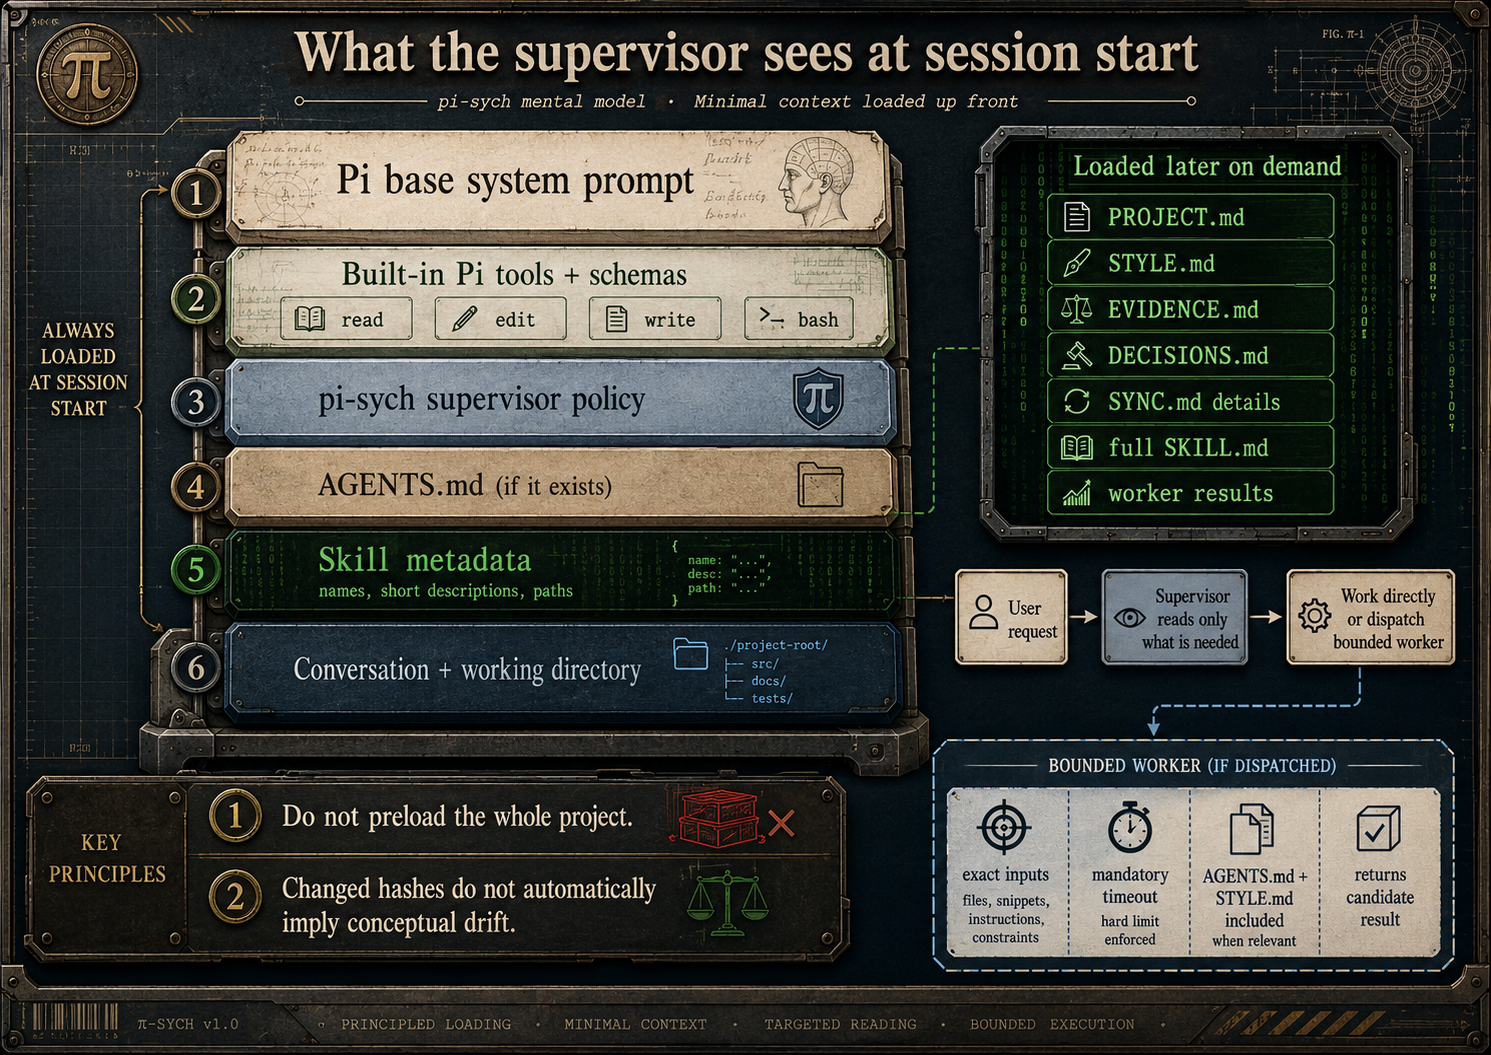
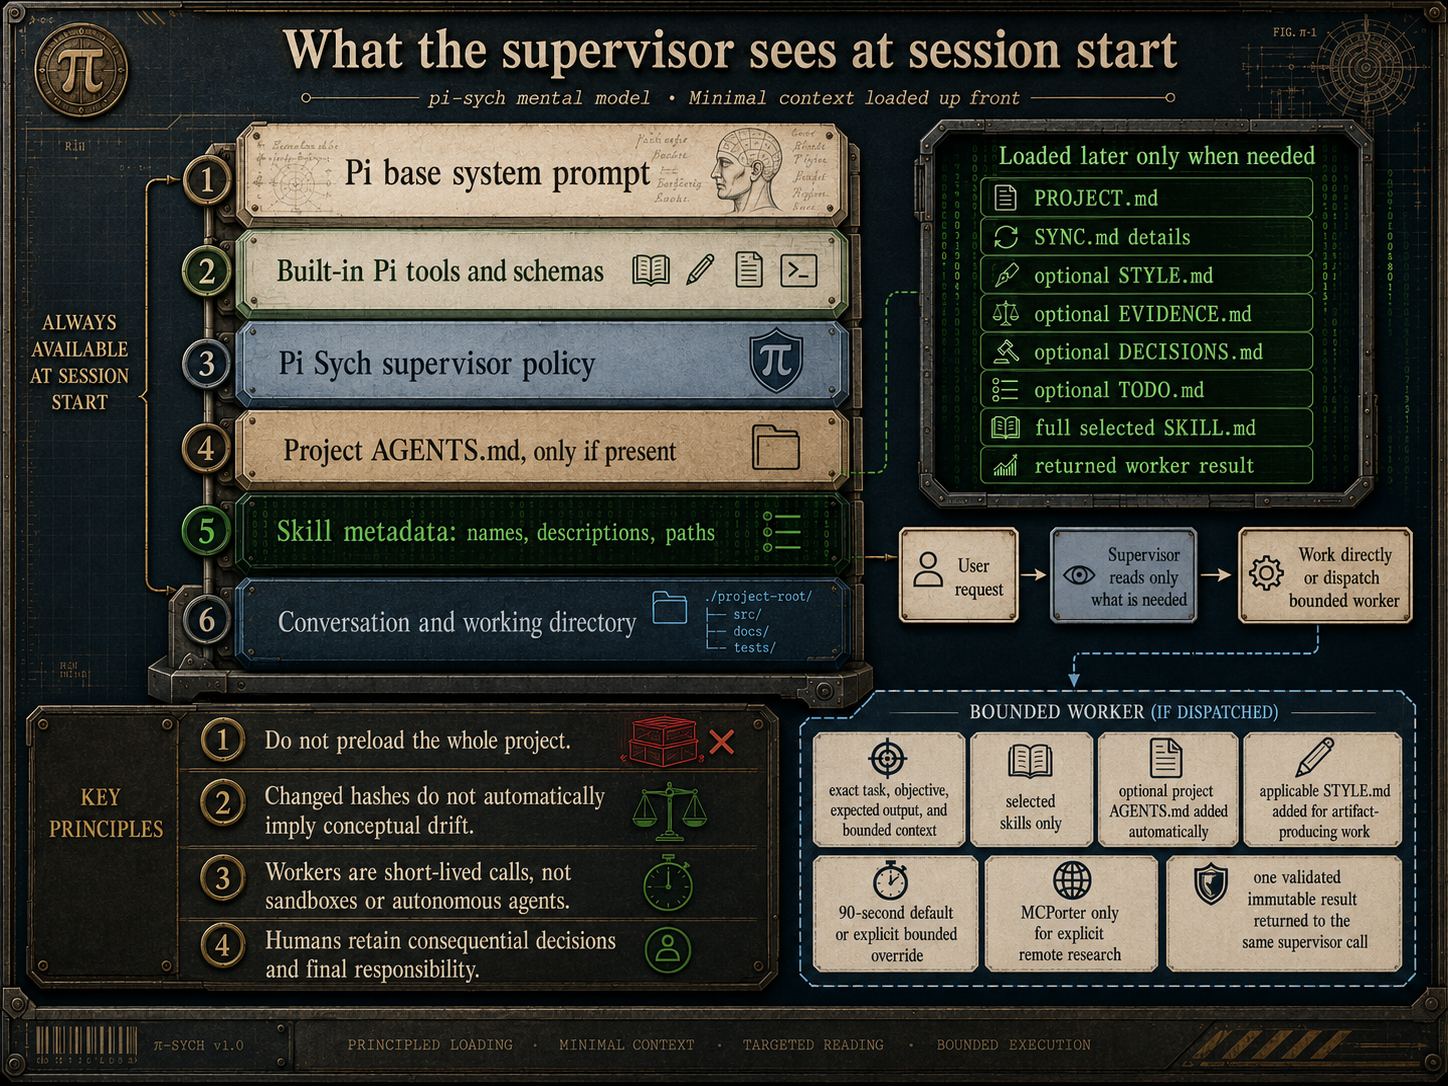
fix: harden minimal architecture release

diff --git a/extensions/workbench/src/worker-engine.ts b/extensions/workbench/src/worker-engine.ts
@@ -3,7 +3,7 @@ import { randomUUID } from "node:crypto";
 import { constants, existsSync, statSync } from "node:fs";
 import { access, mkdir, mkdtemp, open, readFile, rm } from "node:fs/promises";
 import { homedir, tmpdir } from "node:os";
-import { dirname, isAbsolute, resolve } from "node:path";
+import { dirname, isAbsolute, relative, resolve } from "node:path";
 import { fileURLToPath } from "node:url";
 
 export const WORKER_MODES = ["read-only", "edit", "full-host"] as const;
@@ -82,6 +82,7 @@ export interface WorkerLaunchOutcome {
 	stdout: string;
 	stderr: string;
 	classification?: "cancelled" | "timeout" | "spawn-failure";
+	terminationSignal?: NodeJS.Signals | null;
 }
 
 export interface DispatchOutcome {
@@ -290,6 +291,7 @@ export function taskPrompt(
 				]
 			: []),
 		"Submit exactly one truthful immutable result with submit_artifact before finishing.",
+		"Set resultPackage to 'inline' when the structured result is complete; otherwise use an existing durable project-relative path.",
 	].join("\n");
 }
 
@@ -367,6 +369,28 @@ async function readWorkerResult(
 	} catch (error) {
 		if ((error as NodeJS.ErrnoException).code === "ENOENT") return undefined;
 		throw error;
+	}
+}
+
+async function validateResultPackage(
+	projectRoot: string,
+	result: WorkerResult,
+): Promise<void> {
+	if (result.resultPackage === "inline") return;
+	const path = resolve(projectRoot, result.resultPackage);
+	const rel = relative(projectRoot, path);
+	if (
+		rel === ".." ||
+		rel.startsWith(`..${process.platform === "win32" ? "\\" : "/"}`) ||
+		isAbsolute(rel)
+	)
+		throw new Error(
+			"resultPackage must be 'inline' or a project-relative path",
+		);
+	try {
+		await access(path, constants.R_OK);
+	} catch {
+		throw new Error("resultPackage path is unavailable");
 	}
 }
 
@@ -463,8 +487,14 @@ export const launchPiWorker: WorkerLauncher = async (spec) =>
 				classification: "spawn-failure",
 			}),
 		);
-		child.once("close", (exitCode) =>
-			finish({ exitCode, stdout, stderr, classification: stopClassification }),
+		child.once("close", (exitCode, terminationSignal) =>
+			finish({
+				exitCode,
+				stdout,
+				stderr,
+				classification: stopClassification,
+				terminationSignal,
+			}),
 		);
 	});
 
@@ -504,7 +534,9 @@ export async function dispatchWorker(options: {
 		let resultError: string | undefined;
 		try {
 			result = await readWorkerResult(resultPath, identity);
+			if (result) await validateResultPackage(options.projectRoot, result);
 		} catch (error) {
+			result = undefined;
 			resultError = error instanceof Error ? error.message : String(error);
 		}
 		if (result) return { identity, model, attempts: 1, timeoutMs, result };

diff --git a/extensions/workbench/src/project-status.ts b/extensions/workbench/src/project-status.ts
@@ -370,6 +370,15 @@ export function formatProjectStatusCheck(state: ProjectStatusCheck): string {
 		lines.push("", "Changed:", ...state.changed.map((path) => `- ${path}`));
 	if (state.missing.length)
 		lines.push("", "Missing:", ...state.missing.map((path) => `- ${path}`));
+	const needsReview = state.artifacts
+		.filter((artifact) => artifact.status === "needs-review")
+		.map((artifact) => artifact.path);
+	if (needsReview.length)
+		lines.push(
+			"",
+			"Persisted as needing review:",
+			...needsReview.map((path) => `- ${path}`),
+		);
 	if (state.impacted.length)
 		lines.push(
 			"",
@@ -386,7 +395,7 @@ export function formatProjectStatusCheck(state: ProjectStatusCheck): string {
 			...state.cycles.map((cycle) => `- ${cycle.join(" → ")}`),
 		);
 	if (!state.changed.length && !state.missing.length)
-		lines.push("", "All tracked files match their acknowledged hashes.");
+		lines.push("", "All tracked files match their recorded hashes.");
 	lines.push(
 		"",
 		"A changed hash establishes changed content, not conceptual drift or authority.",

diff --git a/extensions/worker/index.ts b/extensions/worker/index.ts
@@ -18,7 +18,10 @@ const resultParameters = Type.Object({
 	),
 	changedFiles: Type.Array(Type.String()),
 	limitations: Type.Array(Type.String()),
-	resultPackage: Type.String(),
+	resultPackage: Type.String({
+		description:
+			"Use 'inline' when the structured result is complete; otherwise provide an existing durable project-relative path.",
+	}),
 });
 
 export default function piSychWorker(pi: ExtensionAPI): void {

diff --git a/SYNC.md b/SYNC.md
@@ -3,11 +3,11 @@
 ```json
 {
   "version": 1,
-  "confirmedAt": "2026-07-30T01:07:24.518Z",
+  "confirmedAt": "2026-07-30T02:16:20.647Z",
   "artifacts": [
     {
       "path": "PROJECT.md",
-      "fingerprint": "sha256:b7e8bc2dfc4edcea037bdc6663edd020602f488f425b232d7e0851391aff37ff",
+      "fingerprint": "sha256:1628abe53fe58d04489a85012c1e7a1775530cc6904c271662e3bf74cde87166",
       "status": "current",
       "role": "project",
       "authoritativeFor": [
@@ -18,13 +18,13 @@
         "accepted-direction"
       ],
       "acknowledgement": {
-        "at": "2026-07-30T01:07:24.518Z",
-        "reason": "Reviewed the completed refactor, release metadata, project direction, evidence update, and documentation changes."
+        "at": "2026-07-30T02:16:20.647Z",
+        "reason": "Reviewed the v1.0.1 corrective implementation, package metadata, current diagrams, evidence, project direction, and affected documentation before release."
       }
     },
     {
       "path": "EVIDENCE.md",
-      "fingerprint": "sha256:d7b1a59bced1974dce34d1fe12051f78109e68a467ba5143e12c5f88f6a00870",
+      "fingerprint": "sha256:b5d2ed78758f72904f52e8aa261d729830b1ecaa4f06aba91bf1ab8ea9eb66b3",
       "status": "current",
       "role": "evidence",
       "authoritativeFor": [
@@ -38,27 +38,27 @@
         "tests/integration"
       ],
       "acknowledgement": {
-        "at": "2026-07-30T01:07:24.518Z",
-        "reason": "Reviewed the completed refactor, release metadata, project direction, evidence update, and documentation changes."
+        "at": "2026-07-30T02:16:20.647Z",
+        "reason": "Reviewed the v1.0.1 corrective implementation, package metadata, current diagrams, evidence, project direction, and affected documentation before release."
       }
     },
     {
       "path": "ARCHITECTURE.md",
-      "fingerprint": "sha256:084aa2b50ab4851fc82352379079a77358003c70c6be8708f4dcf7b066612974",
+      "fingerprint": "sha256:ad40d74e0e544b5ea029438320ce5b1fdff0ac3e7bb9e82100e5985b063db8c4",
       "status": "current",
       "role": "architecture",
       "authoritativeFor": [
         "implemented-architecture"
       ],
       "acknowledgement": {
-        "at": "2026-07-30T01:04:35.543Z",
-        "reason": "Completed the approved minimal-architecture refactor and reviewed the affected documentation, evidence, and package metadata."
+        "at": "2026-07-30T02:16:20.647Z",
+        "reason": "Reviewed the v1.0.1 corrective implementation, package metadata, current diagrams, evidence, project direction, and affected documentation before release."
       }
     },
     {
       "path": "README.md",
-      "fingerprint": "sha256:0ae4e3c07d6bf8f8778b6ddfe524e4440b5f4665258db391e726ea0cb547ebe8",
-      "status": "needs-review",
+      "fingerprint": "sha256:27254049334aa8926b3eb148e16ee2d2c1ff16c66b6f11234fc7d8daa5b70e73",
+      "status": "current",
       "role": "documentation",
       "authoritativeFor": [
         "package-usage",
@@ -69,13 +69,13 @@
         "package.json"
       ],
       "acknowledgement": {
-        "at": "2026-07-30T01:04:35.543Z",
-        "reason": "Completed the approved minimal-architecture refactor and reviewed the affected documentation, evidence, and package metadata."
+        "at": "2026-07-30T02:16:20.647Z",
+        "reason": "Reviewed the v1.0.1 corrective implementation, package metadata, current diagrams, evidence, project direction, and affected documentation before release."
       }
     },
     {
       "path": "package.json",
-      "fingerprint": "sha256:6ddc1e722145ae8d7a8b73e5a9ad2af88a8361e5cde85388781adb1c9283a738",
+      "fingerprint": "sha256:b1c0254b26e39bd758b1a88b995ae20460733481d8952cb1bdbcbae452794ef4",
       "status": "current",
       "role": "package-boundary",
       "authoritativeFor": [
@@ -88,8 +88,8 @@
         "tests"
       ],
       "acknowledgement": {
-        "at": "2026-07-30T01:07:24.518Z",
-        "reason": "Reviewed the completed refactor, release metadata, project direction, evidence update, and documentation changes."
+        "at": "2026-07-30T02:16:20.647Z",
+        "reason": "Reviewed the v1.0.1 corrective implementation, package metadata, current diagrams, evidence, project direction, and affected documentation before release."
       }
     },
     {
@@ -107,15 +107,15 @@
     },
     {
       "path": "docs/DEVELOPMENT.md",
-      "fingerprint": "sha256:d6bfd475ad12dbdb8e5ed198d3f9a3496c81ec4e173773d923c9b2bd22d1c115",
+      "fingerprint": "sha256:2c391e446aac4f7e08ac8968e5b703348d62be8bd6e38f335a87c7c6eb36339e",
       "status": "current",
       "role": "documentation",
       "authoritativeFor": [
         "development-checks"
       ],
       "acknowledgement": {
-        "at": "2026-07-30T01:04:35.543Z",
-        "reason": "Completed the approved minimal-architecture refactor and reviewed the affected documentation, evidence, and package metadata."
+        "at": "2026-07-30T02:16:20.647Z",
+        "reason": "Reviewed the v1.0.1 corrective implementation, package metadata, current diagrams, evidence, project direction, and affected documentation before release."
       }
     }
   ]

diff --git a/EVIDENCE.md b/EVIDENCE.md
@@ -30,14 +30,24 @@
 **Limits:** These checks establish only observed connectivity and bounded retrieval at that time. Remote content remains external and non-authoritative until reviewed; OpenAlex uses a third-party rolling `npx` server and full-host execution.
 **Checked:** 2026-07-28
 
+## E-007 — Corrective package and diagram review passed
+
+**Status:** verified
+**Kind:** observed behaviour
+**Source:** `docs/img/architecture.png`, `docs/img/supervisors_context.png`, `README.md`, `ARCHITECTURE.md`, `package.json`, and package dry-run output
+**Supports:** current visual architecture, Pi gallery preview, and packaged-documentation claims
+**Evidence:** Both regenerated diagrams were visually checked against the implemented tool names, timeout and dependency semantics, worker context, optional project files, MCPorter boundary, and human ownership. The package manifest includes the diagrams and versioned image URLs used by the README and gallery metadata.
+**Limits:** Visual summaries omit implementation detail and do not supersede the text documentation or code. Rendering on Pi.dev remains dependent on publication and the gallery renderer fetching the declared URL.
+**Checked:** 2026-07-30
+
 ## E-006 — Opt-in local Pi usage acceptance passed
 
 **Status:** verified
 **Kind:** observed behaviour
 **Source:** `tests/usage/minimal-workflow.test.mjs`; one explicit local `PI_SYCH_USAGE_TEST=1 npm run test:usage` run
 **Supports:** real-Pi usage path and session/artifact inspection
-**Evidence:** A disposable dummy project was given a real Pi prompt; the run created `REPORT.md` and the test inspected the saved session JSON for the `project_status` call and artifact path.
-**Limits:** This is one local model run, not a CI guarantee or a broad quality assessment. It used the locally configured model and credentials.
+**Evidence:** A disposable dummy project was given a real Pi prompt; the supervisor called `project_status`, launched one clean-context read-only worker through `dispatch_worker`, created `REPORT.md`, and the test inspected the saved session JSON for both tool calls, the completed worker result, and the artifact path.
+**Limits:** This is one local supervisor/worker model run, not a CI guarantee or a broad quality assessment. It used locally configured models and credentials.
 **Checked:** 2026-07-30
 
 ## E-005 — Minimal architecture refactor passes deterministic acceptance
@@ -46,7 +56,7 @@
 **Kind:** observed behaviour
 **Source:** `package.json`, `tests/unit`, `tests/integration`, `scripts/check-source-budget.mjs`
 **Supports:** minimal runtime surface, graph-aware project status, bounded dispatch, retained MCP/Plannotator adapters, and production-code budget claims
-**Evidence:** The supervisor exposes `dispatch_worker`, `project_status`, and `submit_plan`; the worker exposes immutable result submission; semantic workflows are packaged as skills; the rough production TypeScript estimate is about 1,600 lines against a 2,000-line limit; deterministic tests and smoke checks pass.
+**Evidence:** The supervisor exposes `dispatch_worker`, `project_status`, and `submit_plan`; the worker exposes immutable result submission; semantic workflows are packaged as skills; the rough production TypeScript estimate remains below the 2,000-line limit; deterministic tests include actual worker cancellation, graceful termination, forced-kill behavior, and rejection of non-durable result-package paths.
 **Limits:** This does not establish real-model usage, remote retrieval at the current time, or substantive correctness of project artifacts.
 **Checked:** 2026-07-29
 

diff --git a/README.md b/README.md
@@ -2,6 +2,8 @@
 
 Pi Sych is a small Pi package for serious writing, research, analysis, and software work. It provides explicit project state, bounded clean-context workers, and optional human plan review. It does not automate authority, conceptual judgment, or final responsibility.
 
+![Pi Sych minimal architecture](https://unpkg.com/pi-sych@1.0.1/docs/img/architecture.png)
+
 ## Principles
 
 Pi Sych follows the [design principles](principles.md): humans own consequential decisions and final outputs; supervisors own coordination; important knowledge belongs in visible files; workers are short-lived and receive the smallest complete context; mechanical tools handle mechanical facts; skills and people handle meaning; existing Pi, MCPorter, Plannotator, and project tooling come before new infrastructure; and permanent code should stay small.
@@ -60,13 +62,15 @@ Commands: `/pi-sych-status`, `/pi-sych-mcp`, `/plannotator-annotate <file>`, and
 
 ## Workers and remote research
 
+![Context available to the supervisor and a bounded worker](https://unpkg.com/pi-sych@1.0.1/docs/img/supervisors_context.png)
+
 Workers receive no supervisor transcript. They receive selected context files, selected skills, project `AGENTS.md` when present, and `STYLE.md` for edit work when present.
 
 - `read-only`: `read`, `grep`, `find`, and `ls`.
 - `edit`: read-only tools plus `edit`.
 - `full-host`: `read`, `edit`, and `bash`.
 
-Every worker also has `submit_artifact`. Tool visibility is not sandboxing. `full-host` workers have the Pi process's host permissions.
+Every worker also has `submit_artifact`. A result package is either inline or an existing durable project-relative path. Tool visibility is not sandboxing. `full-host` workers have the Pi process's host permissions.
 
 Set `remoteResearch: true` only for assigned remote research. It exposes MCPorter with the configured Context7, OpenAlex, and Scholar Gateway bridge; ordinary workers do not receive it. MCPorter credentials remain private. See [configuration](docs/CONFIGURATION.md).
 

diff --git a/PROJECT.md b/PROJECT.md
@@ -10,7 +10,7 @@
 
 ## Intended contribution
 
-[accepted] Pi Sych keeps project state and evidence visible, reports drift without silently choosing a winner, and supports bounded workers without claiming that generated prose or automated checks replace human judgment.
+[accepted] Pi Sych keeps project state and evidence visible, reports changed hashes and declared dependency impact without silently making semantic judgments, and supports bounded workers without claiming that generated prose or automated checks replace human judgment.
 
 ## Deliverables
 
@@ -34,8 +34,8 @@
 
 ## Current state
 
-[verified] The package has a minimal supervisor with `dispatch_worker` and `project_status`, a separately bootstrapped worker extension, graph-aware project state, optional remote research through MCPorter, retained Plannotator annotation/review adapters, semantic workflow skills, and deterministic acceptance checks. The counted production TypeScript is kept to a rough estimate below 2,000 lines.
+[verified] The package has a minimal supervisor with `dispatch_worker` and `project_status`, a separately bootstrapped worker extension, graph-aware project state, optional remote research through MCPorter, retained Plannotator annotation/review adapters, semantic workflow skills, behavioral worker-lifecycle tests, and opt-in real-Pi acceptance. The rough production TypeScript estimate remains below 2,000 lines.
 
 ## Immediate next step
 
-[accepted] Keep the package small. The minimal-architecture refactor is implemented; next maintain the major-release documentation, run opt-in real-Pi usage checks when valuable, and add behavior only when it serves a real user need and can be explained, reviewed, and verified.
+[accepted] Complete the reviewed `v1.0.1` corrective release, then keep the package small and add behavior only when it serves a real user need and can be explained, reviewed, and verified.

diff --git a/ARCHITECTURE.md b/ARCHITECTURE.md
@@ -2,6 +2,8 @@
 
 Pi Sych has a small mechanical core and a progressively disclosed skill corpus.
 
+![Context available to the supervisor and a bounded worker](https://unpkg.com/pi-sych@1.0.1/docs/img/supervisors_context.png)
+
 ## Runtime
 
 The supervisor extension (`extensions/workbench/index.ts`) registers three agent tools:
@@ -16,7 +18,7 @@ It also registers `/pi-sych-status`, `/pi-sych-mcp`, `/plannotator-annotate`, an
 
 `worker-engine.ts` validates one compact dispatch request, injects optional project `AGENTS.md` and applicable `STYLE.md`, launches a clean Pi worker, applies a 90-second default timeout or validated override, forwards cancellation, uses `SIGTERM` then `SIGKILL`, and reads one immutable result from a temporary directory. It has no worker registry, polling surface, verification contract, run archive, mutation lock, or semantic workflow engine.
 
-`extensions/worker/index.ts` exposes only `submit_artifact`. The worker result is bound to an internal task/run identity and is written once.
+`extensions/worker/index.ts` exposes only `submit_artifact`. The worker result is bound to an internal task/run identity and is written once. Its `resultPackage` is either `inline` or an existing durable project-relative path; temporary runtime paths are not returned.
 
 `model-catalog.ts` reads private ranked model profiles. `mcporter.ts` remains an explicit remote-research adapter for Context7, OpenAlex, and Scholar Gateway. `plannotator.ts` remains a lazy compatibility boundary; Pi Sych never loads Plannotator's extension entrypoint.
 

diff --git a/TODO.md b/TODO.md
@@ -4,12 +4,12 @@ This optional ledger tracks the minimal-architecture refactor. It is not authori
 
 ## Active
 
-
 ## Blocked
 
-- [ ] R-012 — Regenerate architecture diagrams from the approved edit prompts if suitable image-editing capability becomes available; they are retained as source artifacts and are not presented as current runtime documentation.
-
 ## Done
+
+- [x] R-013 — Completed the independently reviewed v1.0.1 corrective patch: visible persisted review state, behavioral worker lifecycle and durable-result tests, expanded opt-in dispatch acceptance, corrected packaged diagrams, gallery metadata, and release verification.
+- [x] R-012 — Regenerated and reviewed the packaged architecture diagrams; both are presented in the README through versioned package URLs.
 
 - [x] R-011 — Enforced the rough production TypeScript budget, completed deterministic and opt-in local real-Pi acceptance, and inspected the dummy artifact and saved session JSON.
 - [x] R-010 — Rewrote README, architecture, configuration, templates, and supervisor-context documentation; retained diagram sources with an explicit stale-source note.

diff --git a/docs/DEVELOPMENT.md b/docs/DEVELOPMENT.md
@@ -18,7 +18,7 @@ git diff --check
 
 ## Opt-in local usage acceptance
 
-`npm run test:usage` is intentionally excluded from `npm test` and CI. It is gated by `PI_SYCH_USAGE_TEST=1`, uses a real Pi/model call against a disposable dummy project, and inspects resulting artifacts and session JSON. Run it only when real-model behavior adds value beyond deterministic tests; it may require configured local model credentials and can incur provider cost.
+`npm run test:usage` is intentionally excluded from `npm test` and CI. It is gated by `PI_SYCH_USAGE_TEST=1`, uses real Pi/model calls against a disposable dummy project, exercises `project_status` and one clean-context `dispatch_worker` call, and inspects the resulting artifact and session JSON. Run it only when real-model behavior adds value beyond deterministic tests; it requires configured local model credentials and can incur provider cost.
 
 ## Code style
 

diff --git a/docs/img/README.md b/docs/img/README.md
@@ -1,5 +1,6 @@
-# Diagram sources
+# Architecture diagrams
 
-- `architecture.png` and `supervisors_context.png` are retained visual source artifacts for the approved minimal architecture.
-- They require regeneration from the approved edit prompts before being presented as a literal current-runtime diagram. The text in `README.md`, `ARCHITECTURE.md`, and `pi-sych-redefined-architecture.md` is authoritative.
+- `architecture.png` presents the minimal public tools, worker capability modes, project-file roles, and human-ownership boundary.
+- `supervisors_context.png` presents the context available at session start, progressive disclosure, and bounded-worker packet.
+- The diagrams are explanatory summaries. `README.md`, `ARCHITECTURE.md`, and the implementation remain authoritative for exact behavior.
 - The former root `refactor_plan.png` was intentionally deleted.

diff --git a/CHANGELOG.md b/CHANGELOG.md
@@ -2,6 +2,18 @@
 
 All notable changes to Pi Sych are documented here. Versions are immutable npm publications unless explicitly marked otherwise.
 
+## [1.0.1] - 2026-07-30
+
+### Added
+
+- Added behavioral tests for worker cancellation, `SIGTERM`, the termination grace period, and forced `SIGKILL`.
+- Expanded opt-in real-Pi acceptance to exercise a clean-context `dispatch_worker` call.
+- Added Pi package-gallery image metadata, packaged architecture documentation, and corrected architecture diagrams rendered from versioned README URLs.
+
+### Fixed
+
+- Report persisted `needs-review` state even when every tracked file still matches its recorded hash.
+
 ## [1.0.0] - 2026-07-30
 
 ### Changed
